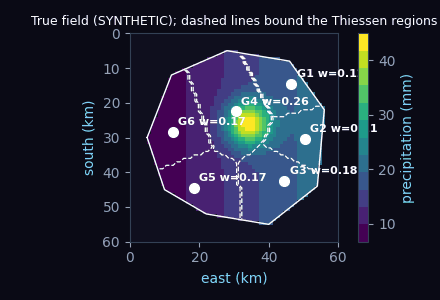
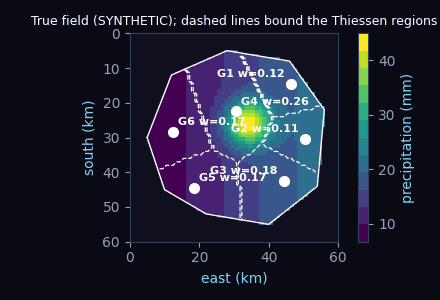
fix(wave3): review fixes (alt text, label clipping, quiz hints, notes, size record)

diff --git a/modules/precipitation-point-to-basin/module.html b/modules/precipitation-point-to-basin/module.html
@@ -509,7 +509,7 @@ IDW            : 18.34 mm   difference from true +1.99 mm
   G3: reading  18.4 mm   Thiessen weight 0.182
   G4: reading  30.5 mm   Thiessen weight 0.257
   G5: reading  10.6 mm   Thiessen weight 0.167
[2 lines of base64/hex data omitted]
   </div>
 </div>
 
@@ -1419,7 +1419,8 @@ var HydroQuiz = (function () {
       "for g, (cx, cy) in GAUGES.items():",
       "    on = g in names",
       "    ax.plot(cx + 0.5, cy + 0.5, 'o', ms=7, mfc='white' if on else 'none', mec='white')",
-      "    ax.text(cx + 2, cy - 1.5, f\"{g} w={weights[names.index(g)]:.2f}\" if on else g + ' off', color='white', fontsize=8, fontweight='bold')",
+      "    right = cx > 38   # labels near the right edge go to the left of the dot so they are not clipped",
+      "    ax.text(cx - 1.5 if right else cx + 2, cy - 1.5, f\"{g} w={weights[names.index(g)]:.2f}\" if on else g + ' off', color='white', fontsize=8, fontweight='bold', ha='right' if right else 'left')",
       "ax.set_title('True field (SYNTHETIC); dashed lines bound the Thiessen regions', fontsize=9, color='white')",
       "ax.set_xlabel('east (km)')",
       "ax.set_ylabel('south (km)')",
@@ -1569,7 +1570,7 @@ var HydroQuiz = (function () {
   }
 
   /* ──────────────────────────────────────────────────────────────────
-     TANGLE — draggable inline numbers that are also keyboard sliders (shared pattern with Module 6)
+     TANGLE — draggable inline numbers that are also keyboard sliders (shared pattern with Reading a Hydrograph)
      ────────────────────────────────────────────────────────────────── */
   var tangle = (function () {
     var listeners = {}, syncs = {};
@@ -1936,7 +1937,7 @@ var HydroQuiz = (function () {
     $('pmeanRows').innerHTML = prow; $('highRows').innerHTML = hrow;
     $('reproNote').textContent = 'p_mean: the recomputed values match CAMELS to within ' + dmax.toFixed(6) + ' mm/day in all four basins, so inputs and period agree. ' +
       'High-precipitation days: the largest difference is ' + f(hmax, 1) + ' days per year. A five-year count (threshold: five times the five-year mean) meets a twenty-year attribute, and single water years here range from ' +
-      wlo + ' to ' + whi + ' days, so a five-year count is expected to scatter around a twenty-year one: the period, not the data, differs.';
+      wlo + ' to ' + whi + ' days, so a five-year count is expected to scatter around a twenty-year one: the period, and so the mean that sets the threshold, differs.';
     $('climSource').textContent = buildClimSource(basin(state.basin), DATA.daily_start, DATA.monthly_days, state.snowT);
     bridgeRewrite('precip-climate', 'climSource');
   }
@@ -1978,7 +1979,7 @@ var HydroQuiz = (function () {
                   'The cell can fall between the gauges, or on just one of them, so the network sees none of it or too much of it',
                   'Thiessen polygons are only valid for widespread, uniform rain'],
         correct: 1,
-        feedback: ['A gauge reports the depth caught in its funnel; the difficulty is where the gauges sit relative to the storm, not what each one reports.', null,
+        feedback: ['Reread §1 and then toggle gauges in §2: what does a single gauge reading actually describe?', null,
                    'Polygons are only geometry: they work for any field, but they cannot add information that no gauge ever recorded.'],
         explain: function () {
           var a = defaultEst(), w = arealEstimates(DEFAULT_ACTIVE.filter(function (g) { return g !== 'G4'; }), DEFAULT_POWER);
@@ -2003,7 +2004,7 @@ var HydroQuiz = (function () {
                   'The fraction of the basin area that lies closer to this gauge than to any other gauge',
                   'The inverse of the distance from the basin centroid to the gauge'],
         correct: 1,
-        feedback: ['Weights come from geometry, not from the readings; the readings are what the weights multiply.', null,
+        feedback: ['Look at the weights table in §2 while you toggle gauges: what changes the weights, and what does not?', null,
                    'A distance to a single point such as the centroid does not divide the basin among the gauges; Thiessen gives every cell to one gauge.'],
         explain: 'Each cell goes to its nearest gauge, and the weight is that gauge\'s share of the cells, so the weights add to 1 and the basin mean is Σ wᵢ Pᵢ.' },
       { id: 'q4', type: 'numeric', unit: 'mm',

diff --git a/modules/runoff-generation/module.html b/modules/runoff-generation/module.html
@@ -1563,7 +1563,8 @@ function baseflowIndex(Q, base) {
     svg.setAttribute('aria-label', 'Scatter of event runoff coefficient against rain over the previous 7 days for ' + b.name + ': ' + s.n + ' events, median coefficient ' + f3(s.medianRC) +
       ', rank correlation ' + f2(s.rho) + '. The readout and table give the same numbers as text.');
     $('evReadout').textContent =
-      b.name + ' · ' + s.n + ' events (' + s.nEst + ' with an estimated-flow day in the window) · median RC ' + f3(s.medianRC) + ' · ' + s.nAbove1 + ' above 1\n' +
+      b.name + ' · ' + s.n + ' events (' + s.nEst + ' with an estimated-flow day in the window) · median RC ' + f3(s.medianRC) + ' · ' + s.nAbove1 + ' above 1' +
+      (s.nAbove1 > 0 ? ' (more quickflow than rain in the window; possible reasons, none tested here: rain that fell unevenly over the basin or beyond the gauge-based average, water already moving from earlier rain, a window that ends before the response does)' : '') + '\n' +
       'Q/P over the five years: ' + f3(s.sumQ / s.sumP) + ' (CAMELS runoff_ratio ' + f3(b.runoff_ratio) + ', 1989–2009: another period, context only)';
     $('evReadout').style.whiteSpace = 'pre-line';
     var rows = s.events.slice().sort(function (p, q) { return q.P - p.P || p.d - q.d; }).slice(0, 5), html = '';
@@ -1821,7 +1822,7 @@ function baseflowIndex(Q, base) {
         options: ['Infiltration excess', 'Saturation excess', 'No runoff: the rain is slower than Ks, so everything infiltrates'],
         correct: function () { var m = gaRun(Q1.i, Q1.T, Q1.D).mech; return m === 'IE' ? 0 : (m === 'SE' ? 1 : 2); },
         feedback: ['Compare the rain rate with Ks first: can a rate below Ks exceed the infiltration capacity?', null,
-          'Ks limits how fast water can enter, not how much room is left. Set the deficit slider to 10 mm and read the mass balance.'],
+          'Set the deficit slider in §3 to different values and read the mass-balance line: which of its terms are nonzero?'],
         explain: function () { var r = gaRun(Q1.i, Q1.T, Q1.D); return 'The rain (' + r.P.toFixed(0) + ' mm in all) is slower than Ks, so R_IE = ' + r.RIE.toFixed(2) + ' mm, but the store holds only ' + Q1.D + ' mm; the remaining ' + r.RSE.toFixed(1) + ' mm is saturation-excess runoff.'; } },
       { id: 'q2', type: 'numeric', unit: 'min',
         prompt: function () { return 'For the default storm of §2 (i = ' + DEF.i + ' mm/h on the column with Ks = ' + KS + ' mm/h and ψΔθ = ' + M + ' mm), how long after the rain begins does the surface start to pond? Give minutes.'; },
@@ -1837,7 +1838,7 @@ function baseflowIndex(Q, base) {
         prompt: function () { return 'On the §5 hillslope with the default start, a ' + Q4P + ' mm storm saturates ' + (100 * satFracAt(Q4P)).toFixed(0) + '% of the columns. Which change enlarges the saturated area?'; },
         options: ['A storm 10 mm shallower on the same slope', 'A storm 10 mm deeper on the same slope', 'Neither: the saturated area is fixed by the slope, not by the storm'],
         correct: function () { var a = satFracAt(Q4P - 10), b = satFracAt(Q4P + 10), base = satFracAt(Q4P); return b > base ? 1 : (a > base ? 0 : 2); },
-        feedback: ['A shallower storm fills fewer stores. Compare the saturated counts in the readout at two depths.', null,
+        feedback: ['Move the storm-depth slider in §5 and compare the saturated counts in the readout at the depths in the options.', null,
           'Move the storm-depth slider and watch the S marks: the count is not fixed.'],
         explain: function () { return 'At ' + (Q4P - 10) + ', ' + Q4P + ' and ' + (Q4P + 10) + ' mm the saturated fractions are ' + [satFracAt(Q4P - 10), satFracAt(Q4P), satFracAt(Q4P + 10)].map(f2).join(', ') + ': more rain fills the stores of more columns, starting at the stream.'; } },
       { id: 'q5', type: 'numeric',
@@ -1858,7 +1859,7 @@ function baseflowIndex(Q, base) {
                   'Infiltration excess only happens on days with snow'],
         correct: 1,
         feedback: ['Daily records are widely used; the issue is what they can resolve, not whether they are usable.', null,
-          'Snow is not required: think about what a daily total does to a rain rate.'],
+          'Return to §1 and compare the quantity infiltration capacity is measured against with the quantity a daily record provides.'],
         explain: 'The 24-hour mean rate of even the largest day in §6 hides how much of it fell in a burst; the mechanism is set by that short-time rate against capacity.' }
     ]
   });

diff --git a/modules/evapotranspiration-budyko/module.html b/modules/evapotranspiration-budyko/module.html
@@ -560,7 +560,7 @@ calibrated for each catchment there (Addor et al. 2017), and radiation built fro
     <span class="callout-label">Reading points that fall outside the limits</span>
     A point above the limits, or below E / P = 0, is not a violation of physics: E / P here is a <em>derived</em> number, 1 − Q / P, and it carries the assumptions of §4
     (storage change near zero over the average, no water crossing the divide) plus the idea that an annual-mean aridity index captures the climate (snow storage and out-of-phase seasons break that).
-    A point outside the limits therefore says those assumptions do not hold for that basin and period. This lesson counts such basins; it does not decide which assumption fails.
+    A point outside the limits therefore says those assumptions do not hold for that basin and period. This lesson counts such basins; it does not decide which assumption fails. Possible reasons, none tested here: water that crosses the divide underground, records that cover different periods, a short record, or a gauged area that differs from the area the forcing describes. The Siletz River point (E/P near 0.01 in the cell output of §5) is the kind of point this note is about.
   </div>
 
   <div class="callout agent">
@@ -1770,7 +1770,7 @@ plt.tight_layout()`;
                   'The water balance no longer applies to that basin, so its precipitation and streamflow cannot be compared',
                   'Evapotranspiration has become negative for that basin, so it should be removed from the plot'],
         correct: 0,
-        feedback: [null, 'The water balance always holds; what can fail is the shortcut E ≈ P − Q that turns it into a single number.',
+        feedback: [null, 'Reread §4: which step turns the water balance into a single long-term number, and what does that step assume?',
                    'E / P here is a derived quantity, 1 − Q / P, not a measured flux. Removing the point would hide exactly the thing to be understood.'],
         explain: 'E / P in this plot is computed as 1 − Q / P, so it inherits the steady-state and closed-basin assumptions of §4. A point outside the limits shows that those assumptions do not describe that basin over the averaging period. The lesson does not say which one fails.' }
     ]

diff --git a/tests/test_precipitation_point_to_basin.py b/tests/test_precipitation_point_to_basin.py
@@ -224,7 +224,7 @@ def test_reproduction_check_p_mean_within_1e_3_and_high_prec_freq_difference_is_
     note = run_page_note("reproNote")
     assert f"within {dmax:.6f} mm/day" in note and f"is {hmax:.1f} days per year" in note
     assert f"range from {min(allwy)} to {max(allwy)} days" in note
-    assert "period, not the data, differs" in note
+    assert "the period, and so the mean that sets the threshold, differs" in note
 
 
 def run_page_note(element_id: str) -> str:

diff --git a/CHANGELOG.md b/CHANGELOG.md
@@ -13,6 +13,9 @@ Owner request, 2026-11-17: add the precipitation, evapotranspiration and runoff-
 ### course-certificate 0.1.2 → 0.1.3
 - Counts follow the course: "All ten learning modules done", "10 Learning Modules · ~7 Hours", "Requires completion of all 10 course modules", share text "10 modules". Institution wording, signature block and completion check are unchanged and still owner decisions.
 
+### Review fixes (same day)
+- precipitation-point-to-basin: figure alt text now describes the one map the cell draws; gauge labels near the right edge no longer clip; one quiz hint and the reproduction note reworded. runoff-generation and evapotranspiration-budyko: hints reworded to point at where to look; a neutral note of possible reasons next to events with RC above 1 and points outside the Budyko limits.
+
 ### Repository
 - `test_every_doi_in_the_modules_passed_the_gate` now matches DOIs that contain `<`, `>`, `(`, `)`, `;` in full (SICI-style, e.g. Thiessen 1911, Priestley & Taylor 1972), after normalising HTML entities and percent-encoding; regression test added. The two lessons that worked around the old pattern show those DOIs as written.
 - Module set must equal the course's module set and the manifests' `courseOrder` must equal the position in `course.json`; the SYNTHETIC-label test covers the new lessons.
@@ -29,6 +32,7 @@ Owner request, 2026-11-17: add the precipitation, evapotranspiration and runoff-
 - Real data: Daymet water year 1997 (dayl, srad, tmax, tmin, vp) for four CAMELS basins, and aridity / runoff_ratio / frac_snow for 671 gauges (`data/et-budyko.json`, 64.8 KB with provenance; extractor `--only evapotranspiration-budyko`).
 - PET two ways (Hargreaves–Samani; Priestley–Taylor with the net-radiation budget shown step by step, α slider), checked against the tabulated `pet_mean` as a reproduction check with the period/method differences stated.
 - Long-term AET from E = P − Q; Budyko space with 670 basins, both limits, a Fu curve with an ω slider and an in-lesson least-squares fit; points outside the limits are read as assumptions that do not hold, not as data problems.
+- Page size is about 221 KB, over the 200 KB target and under the 250 KB cap; it was not trimmed because it carries the inlined 670-basin table, the forcing blob and two figures.
 - Two executable cells (`pet-two-ways`, `budyko-camels`) with pre-rendered outputs; seven-item checkpoint with computed answers; five DOIs gate-verified, two handbooks without DOI marked pending the owner's decision.
 
 ### runoff-generation new → 0.1.0

diff --git a/DECISIONS.md b/DECISIONS.md
@@ -35,3 +35,5 @@ The owner asked for these lessons to be added to the course (2026-11-17), so the
 - **References without DOI** (FAO-56, Budyko 1974, NEH-4) sit in blocks marked "Reference without DOI — pending owner decision"; Fu (1981) is not cited, the Fu form is cited through Zhang et al. (2004).
 - **DOI scan.** `test_every_doi_in_the_modules_passed_the_gate` normalises HTML entities and percent-encoding and matches SICI-style DOIs (`<`, `>`, `(`, `)`, `;`) in full. The two lessons that had worked around the old pattern now show their DOIs as written.
 - **Numbered cross-references** in the older lessons ("Module 5", "M6") follow the new order; lessons otherwise point to topics by name where they can.
+- **Page size.** The evapotranspiration-budyko page is about 221 KB (220,758 bytes before the fixes below), over the 200 KB target and under the 250 KB hard cap. It was not trimmed: the size comes from the inlined 670-basin table, the four-basin Daymet forcing blob and the two pre-rendered figures, all of which the lesson computes from.
+
